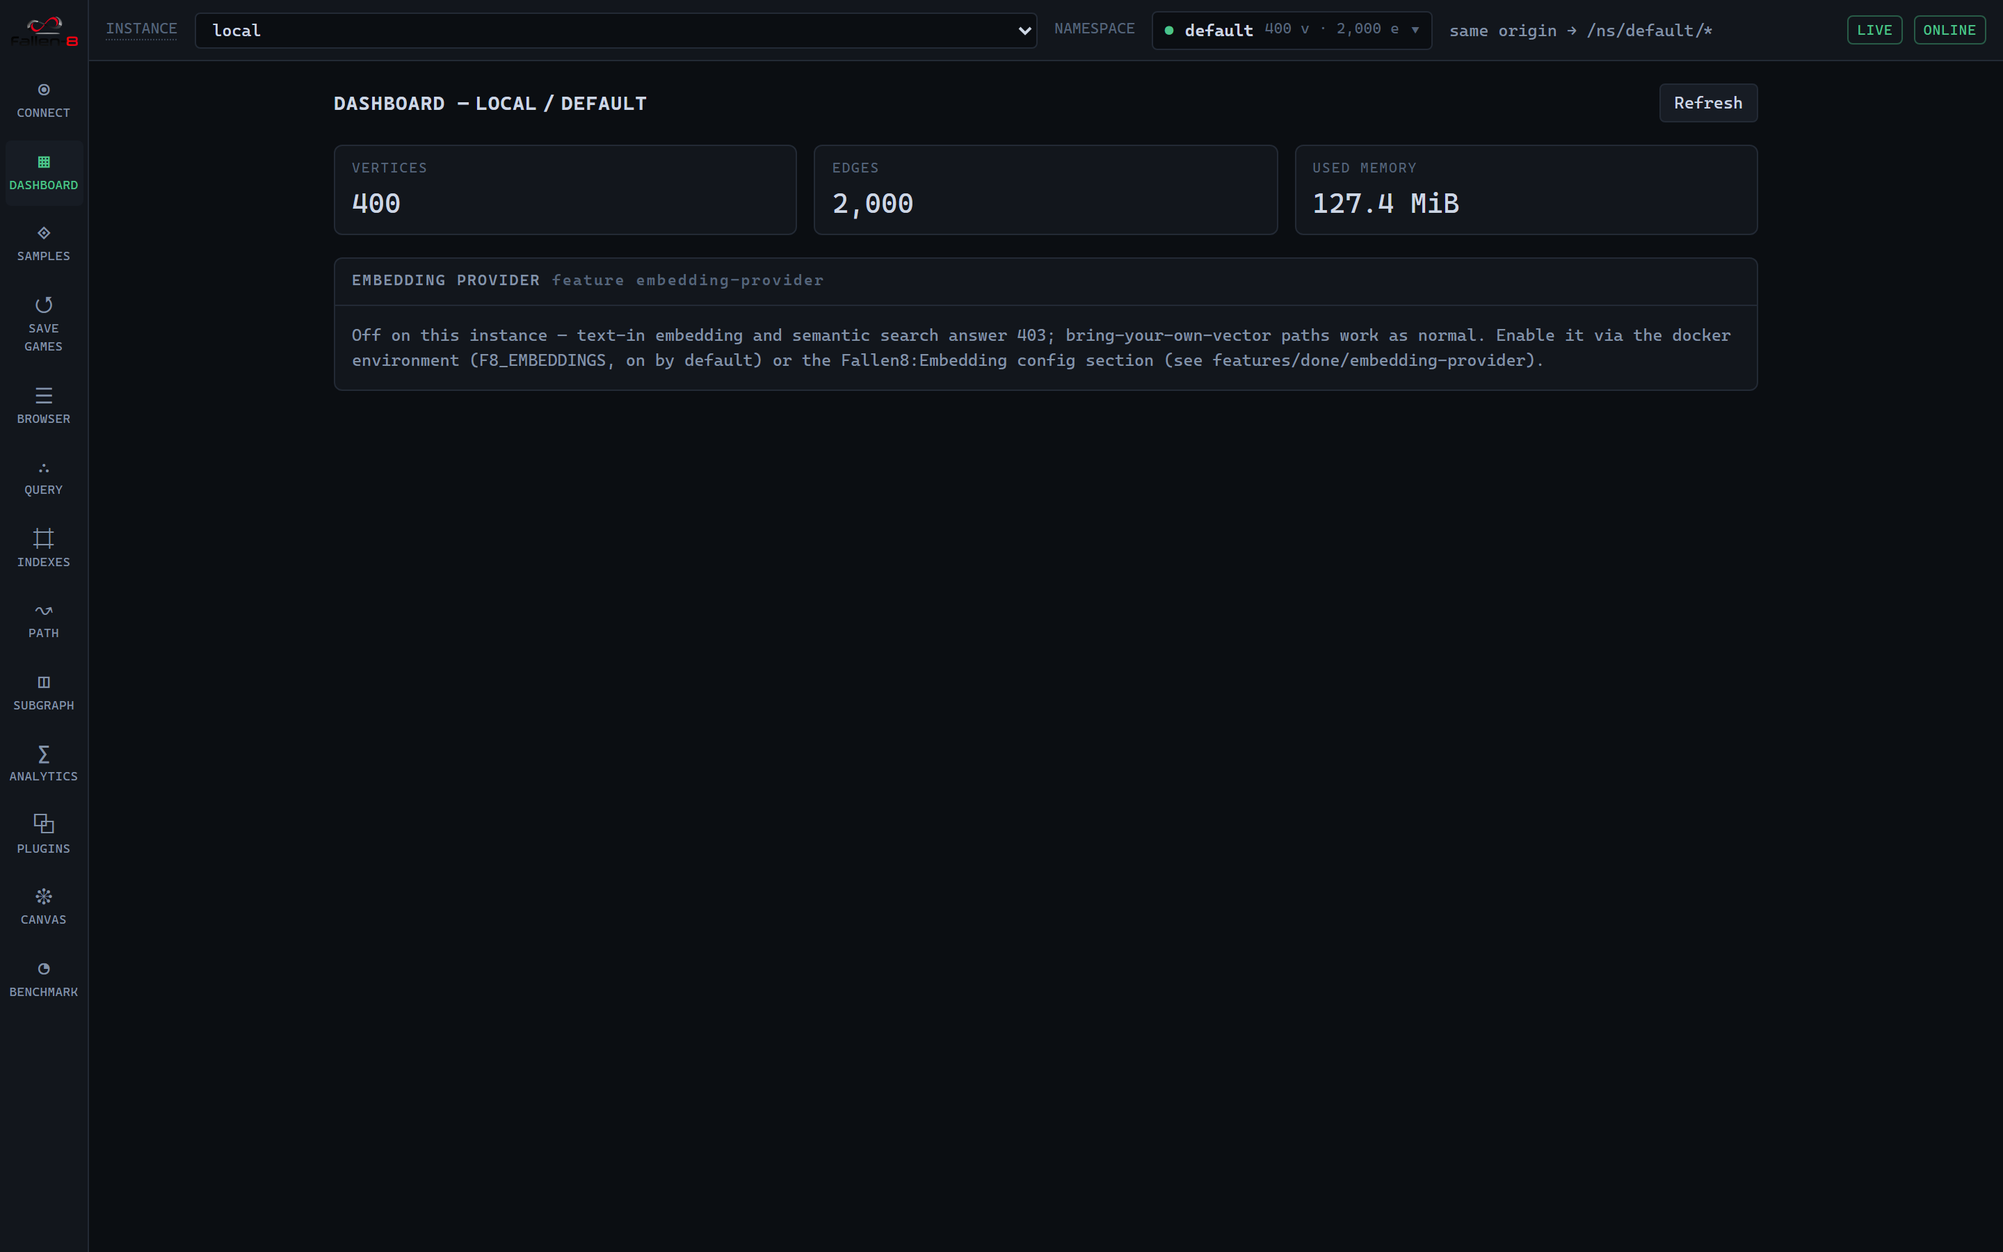
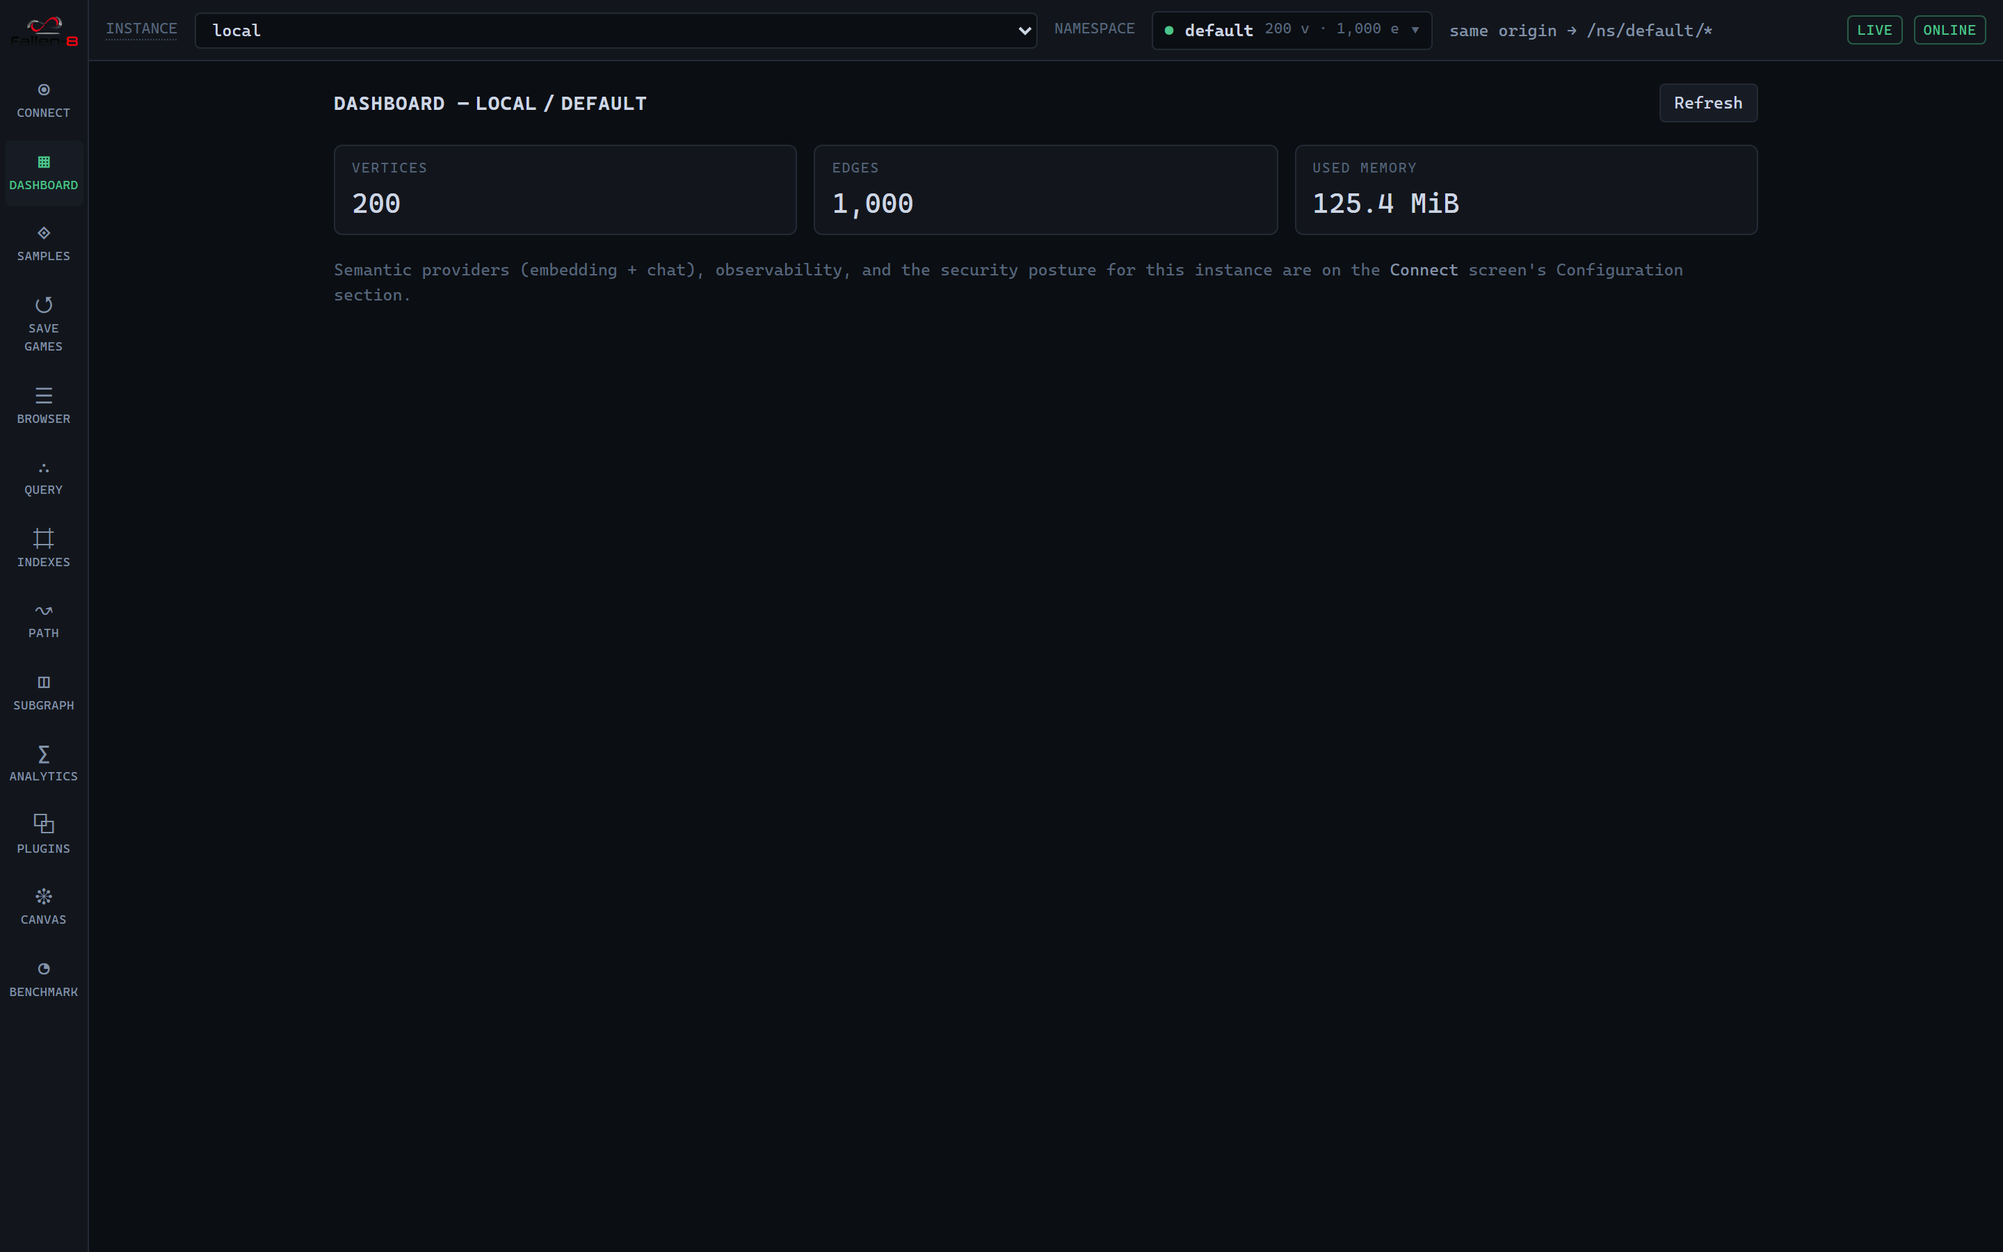
instance-config: docs, architecture diagrams, compose, screenshots
- docs/studio.md: the Connect Configuration section (semantic providers +
  observability, read-only); Dashboard slimmed (embedding card moved);
  NL-assist rewritten for the instance-default reroute + custom escape
  hatch; capability table split (instance vs custom); FR-26.11 retired.
- docs/architecture.md + README.md mermaid: F8 is the semantic gateway -
  the rest->sidecar edge carries embeddings + chat, the browser->sidecar
  edge is the optional custom-direct path, and the "browser calls the
  model directly" prose is rewritten. Brand style unchanged.
- docs/semantic-traversal.md: the chat gateway sibling + config home.
  docs/observability.md: Studio surfaces the posture. docs/running.md:
  F8_CHAT env row. docs/troubleshooting.md: the new default failure modes.
- docker-compose.yml: wire F8_CHAT (default true) -> Fallen8__Chat__*,
  reusing the Ollama sidecar (phi4-f8-mini) so the default NL path works
  out of the box.
- Screenshots redone: screen-connect.png (Configuration section),
  screen-dashboard.png (lean, card removed).

diff --git a/docs/studio.md b/docs/studio.md
@@ -12,8 +12,8 @@ Connect, Save games, and Benchmark are Fallen-8-level (they can span namespaces)
 
 | Screen | Scope | Purpose |
 |---|---|---|
-| Connect | Fallen-8 | Register instances, manage namespaces |
-| Dashboard | namespace | Status overview: vertex/edge counts, memory, embedding provider |
+| Connect | Fallen-8 | Register instances, instance configuration (semantic providers + observability), manage namespaces |
+| Dashboard | namespace | Status overview: vertex/edge counts, memory |
 | Samples | namespace | One-click demo-graph gallery with a capability tag filter |
 | Save games | Fallen-8 | Checkpoint registry (load / delete) + administration (save/load/erase, jsonl import/export) |
 | Browser | namespace | Look up an element, inspect properties/embeddings, adjacency, bulk view, mutations |
@@ -30,13 +30,15 @@ Connect, Save games, and Benchmark are Fallen-8-level (they can span namespaces)
 
 ![Connect screen](images/screen-connect.png)
 
-Two panels. The **Instances** table lists registered servers with a radio to activate one, its endpoint and auth kind, and a live health cell (a lazy `GET /status` showing vertex/edge counts, or `unreachable` / `unauthorized`). "+ Register instance" takes a name, a base URL (empty = same origin as Studio), and an optional API key; keys are stored in this browser only and sent as a bearer/custom header ([security.md](security.md)). The **Namespaces** panel manages the active instance's namespaces — create, rename, switch to, drop, with counts and the `/ns/{name}/*` URL prefix; `default` aliases the bare routes and cannot be renamed or dropped ([namespaces.md](namespaces.md)).
+Three panels. The **Instances** table lists registered servers with a radio to activate one, its endpoint and auth kind, and a live health cell (a lazy `GET /status` showing vertex/edge counts, or `unreachable` / `unauthorized`). "+ Register instance" takes a name, a base URL (empty = same origin as Studio), and an optional API key; keys are stored in this browser only and sent as a bearer/custom header ([security.md](security.md)). The **Configuration** panel (below) shows the active instance's instance-wide config read-only. The **Namespaces** panel manages the active instance's namespaces — create, rename, switch to, drop, with counts and the `/ns/{name}/*` URL prefix; `default` aliases the bare routes and cannot be renamed or dropped ([namespaces.md](namespaces.md)).
+
+The **Configuration** panel is read-only (instance config is set at startup via env/appsettings, so it is display + guidance, not an editor). It sourced from `GET /config` and shows: the **semantic providers** — the embedding provider (backend / model / dimension / metric / loaded) and the **chat gateway** (backend / model / loaded, plus GPU when the Ollama backend reports VRAM residency); and the **observability** posture — a one-line status ("pushing metrics + traces + logs to `<endpoint>`" / "Prometheus at `/metrics`" / off) with a **Configure…** overlay that lists each value and its `Fallen8__…` env key. Secrets are never shown (only whether an API key is required). See [semantic-traversal.md](semantic-traversal.md) and [observability.md](observability.md).
 
 ## Dashboard
 
 ![Dashboard screen](images/screen-dashboard.png)
 
-A lean status overview for the active namespace: vertex/edge counts, used memory from `GET /status` ([observability.md](observability.md)), and the **Embedding provider** card — backend, model, dimension, metric, and load state, or a note when it is off or unreported ([semantic-traversal.md](semantic-traversal.md)). Everything that used to crowd the Dashboard now has its own rail entry — the sample gallery is **Samples**, the plugin inventories and registry are **Plugins**, persistence and administration are **Save games**, and the stored-query library is on **Query**.
+A lean status overview for the active namespace: vertex/edge counts and used memory from `GET /status` ([observability.md](observability.md)). Everything that used to crowd the Dashboard now has its own home — the sample gallery is **Samples**, the plugin inventories and registry are **Plugins**, persistence and administration are **Save games**, the stored-query library is on **Query**, and the semantic providers + observability moved to the Connect **Configuration** section.
 
 ## Samples
 
@@ -123,15 +125,17 @@ Opened from every fragment slot on the Path and Subgraph screens (the Query scre
 
 ### NL assist
 
-The editor's side panel drafts a fragment from a natural-language description. It calls a model backend **you run yourself, directly from the browser** — never through the Fallen-8 instance.
+The editor's side panel drafts a fragment from a natural-language description, calling a model through one of two backends:
 
 | Setting | Detail |
 |---|---|
-| backend | built-in (local Ollama) or custom |
-| endpoint / api | e.g. `http://localhost:11434`; api kind `ollama` or `openai`-compatible |
-| model | built-in default `phi4-f8-mini` (fine-tuned); presets for `phi4-f8` (GPU fine-tune), stock `phi4-mini` / `phi4`, OpenAI, Anthropic |
+| backend | **this Fallen-8 instance** (default) or **custom endpoint** (browser-direct) |
+| instance mode | browser → the active instance's `POST /chat` → its model backend (the Ollama sidecar). The model is server-owned (`Fallen8:Chat:Ollama:Model`, default `phi4-f8-mini`); nothing to configure. Needs the instance's chat gateway enabled (`Fallen8:Chat:Enabled` / `F8_CHAT`) — [semantic-traversal.md](semantic-traversal.md). |
+| custom mode | the browser calls the endpoint **directly**; api kind `ollama` or `openai`-compatible; presets for the fine-tuned `phi4-f8-mini`/`phi4-f8`, stock `phi4-mini`/`phi4`, OpenAI, Anthropic. Any API key is held only in the browser and never sent to a Fallen-8 instance. |
 
-The compose stack runs the Ollama sidecar and sets `OLLAMA_ORIGINS` to the Studio origin so the browser may call it; for your own Ollama, set it yourself. The panel shows an informational reachability check for the configured backend but never blocks on it. Each draft is inserted as ordinary editable text and run through the same validation the editor uses, never auto-submitted; on an invalid draft the editor feeds the compiler diagnostics back to the model and retries a bounded number of times before stopping. A non-loopback endpoint shows a "text leaves this machine" notice first, and drafts can be rated 👍/👎 and exported as training examples. A model that is not present on the backend makes the call 404 ([troubleshooting.md](troubleshooting.md)).
+Instance mode is the default because Fallen-8 is now the semantic gateway (embeddings and chat both proxy through the instance). **This retires the earlier "never through the Fallen-8 instance" rule for the default path** — the prompt travels to the same instance you already trust with your graph, so instance mode shows no egress notice; the surviving guarantee is that a **custom** endpoint and its key stay browser-direct and never reach F8. A non-loopback custom endpoint still shows the "text leaves this machine" notice.
+
+Each draft is inserted as ordinary editable text and run through the same validation the editor uses, never auto-submitted; on an invalid draft the editor feeds the compiler diagnostics back to the model and retries a bounded number of times before stopping. Drafts can be rated 👍/👎 and exported as training examples. A model that is not present on the backend makes the call 404 ([troubleshooting.md](troubleshooting.md)). The plugin authoring editor's NL panel works the same way.
 
 ## Server capabilities Studio uses
 
@@ -140,7 +144,8 @@ Studio degrades gracefully when a capability is off, but these features need ser
 | Studio capability | Needs on the server | Docs |
 |---|---|---|
 | Delegate validation + inline path/subgraph filters & costs | The API key when one is configured (dynamic code is always on) | [security.md](security.md) |
-| NL assist drafting | A reachable model backend + `OLLAMA_ORIGINS` | [security.md](security.md) |
+| NL assist drafting (instance mode, default) | The chat gateway enabled (`Fallen8:Chat:Enabled` / `F8_CHAT`) + its Ollama backend reachable | [semantic-traversal.md](semantic-traversal.md) |
+| NL assist drafting (custom mode) | A reachable model backend the browser calls directly (`OLLAMA_ORIGINS` for a browser-direct Ollama) | [security.md](security.md) |
 | Text-in embedding, semantic search, text query vectors | Embedding provider enabled | [semantic-traversal.md](semantic-traversal.md) |
 | Stored-query invocation (Path / Subgraph) | Nothing (invocation is never gated) | [stored-queries.md](stored-queries.md) |
 | Live chip and push refreshes | Change feed enabled | [change-feed.md](change-feed.md) |

diff --git a/docs/architecture.md b/docs/architecture.md
@@ -19,7 +19,7 @@ flowchart TB
         direction TB
         rest["REST controllers + OpenAPI"]:::sys
         roslyn["Roslyn delegate compiler<br/>+ code cache"]:::sys
-        embed["Embedding provider<br/>(optional, off by default)"]:::sys
+        semantic["Semantic gateway<br/>(embeddings + chat, optional)"]:::sys
         wwwroot["wwwroot (serves F8 Studio)"]:::sys
     end
     subgraph engine["fallen-8-core (in-memory engine)"]
@@ -36,12 +36,12 @@ flowchart TB
     mcp -->|HTTP| rest
     studio -->|HTTP| rest
     svc -->|HTTP| rest
-    studio -.->|assist calls, direct from browser| sidecar
+    studio -.->|custom model endpoint (optional, browser-direct)| sidecar
     wwwroot -.- studio
     rest --> ns
     rest --> roslyn
-    rest --> embed
-    embed -.-> sidecar
+    rest --> semantic
+    semantic -.->|embeddings + chat| sidecar
     ns --> writer --> model
     model --- plugins
     model --- durab
@@ -104,11 +104,15 @@ modes. The full story is in [MCP server](mcp-server.md).
 ## F8 Studio and the model sidecar
 
 [F8 Studio](studio.md) is a React single-page app. It talks to the REST API like any other
-client — it has no privileged channel. Its natural-language assist is the one exception to
-the "everything through the API" rule: the browser calls a **user-run model backend**
-(Ollama / llama.cpp) **directly**, so no model traffic passes through the engine. In the
-compose environment that backend is the Ollama sidecar, which also serves the embedding model
-the app's provider calls. F8 itself bundles no model weights or runtime.
+client — it has no privileged channel, including for models: the app is the **semantic
+gateway**. Both embeddings and the natural-language assist default to going **through the
+instance** — the browser calls `POST /embedding/text` / `POST /chat`, and the app proxies to
+its model backend. In the compose environment that backend is the Ollama sidecar, which
+serves both the embedding model and the chat model. F8 itself bundles no model weights or
+runtime. The one path that stays off the instance is a **custom** NL-assist endpoint: there
+the browser calls the model backend directly and any API key is held only in the browser
+(the earlier browser-only default was retired in favour of the gateway — see
+[studio.md](studio.md)).
 
 ## One deployable unit
 

diff --git a/docs/observability.md b/docs/observability.md
@@ -1,6 +1,6 @@
 # Observability
 
-Fallen-8 emits metrics and traces through BCL instruments — `System.Diagnostics.Metrics` meters and an `ActivitySource` — so the engine carries **no OpenTelemetry dependency**. The server wires OpenTelemetry only when you configure an exporter; a default configuration runs **zero OTel code paths** and, with no listener attached, every hot-path clock read and `StartActivity` call is skipped. Three surfaces are always available regardless of that wiring: `GET /statistics` (a graph-shape snapshot), `GET /status` (a cheap discovery probe), and the `GET /healthz` / `GET /readyz` health probes. Two more are opt-in: the Prometheus scrape endpoint `GET /metrics` and OTLP export of metrics + traces.
+Fallen-8 emits metrics and traces through BCL instruments — `System.Diagnostics.Metrics` meters and an `ActivitySource` — so the engine carries **no OpenTelemetry dependency**. The server wires OpenTelemetry only when you configure an exporter; a default configuration runs **zero OTel code paths** and, with no listener attached, every hot-path clock read and `StartActivity` call is skipped. Three surfaces are always available regardless of that wiring: `GET /statistics` (a graph-shape snapshot), `GET /status` (a cheap discovery probe), and the `GET /healthz` / `GET /readyz` health probes. Two more are opt-in: the Prometheus scrape endpoint `GET /metrics` and OTLP export of metrics + traces. [F8 Studio](studio.md) surfaces the configured posture read-only in its Connect **Configuration** section — whether OTLP/Prometheus are on and the OTLP endpoint telemetry is pushed to (sourced from `GET /config`).
 
 ## Turning it on
 

diff --git a/docs/troubleshooting.md b/docs/troubleshooting.md
@@ -3,15 +3,20 @@
 The snags people actually hit, with the shortest fix and a pointer to the doc that owns the
 full story.
 
-## NL assist returns "Model endpoint returned HTTP 404"
+## NL assist fails to draft (404 / 403 / 503)
 
-**Symptom.** Studio's delegate editor, using the built-in (local Ollama) backend, returns
-`Model endpoint returned HTTP 404`.
+**Symptom.** Studio's delegate editor cannot draft a fragment. In the default **instance**
+backend the instance answers `403` (chat gateway off) or `503` (backend unreachable / model
+missing); in a **custom** browser-direct backend you see `Model endpoint returned HTTP 404`.
 
-**Cause.** The assist model (`phi4-f8-mini`) is not in the sidecar's volume yet — usually the
-first-start pull has not finished, or it failed (no internet to `registry.ollama.ai`). The
-container uses its own `f8-ollama-models` volume, **not** any Ollama installed on the host,
-so pulling on the host does not help the container.
+**Cause.** By default NL-assist routes browser → the instance's `POST /chat` → the Ollama
+sidecar (feature instance-config). A `403` means the chat gateway is off
+(`Fallen8:Chat:Enabled` / `F8_CHAT=false`); a `503`/`404` means the assist model
+(`phi4-f8-mini`) is not in the sidecar's volume yet — usually the first-start pull has not
+finished, or it failed (no internet to `registry.ollama.ai`). The container uses its own
+`f8-ollama-models` volume, **not** any Ollama installed on the host, so pulling on the host
+does not help the container. (A custom browser-direct backend bypasses the instance; a 404
+there is the model missing on *that* endpoint.)
 
 **Fix.**
 

diff --git a/docs/semantic-traversal.md b/docs/semantic-traversal.md
@@ -155,6 +155,17 @@ Configure it under `Fallen8:Embedding` (off unless `Enabled`):
 | `QueryPrefix` | `""` | Retrieval prefix applied to **query-time** embeddings only |
 | `Onnx.{ModelPath,VocabPath,…}`, `LLamaSharp.ModelPath`, `Ollama.{Endpoint,Model}` | — | Backend-specific settings |
 
+## The chat gateway (its sibling)
+
+The embedding provider has a sibling under the same "semantic gateway" idea (feature
+instance-config): a **chat gateway**, `POST /chat`, that proxies a chat completion to the
+same model backend so a client reaches an SLM/LLM *through* the instance. It is the default
+NL-assist transport in [F8 Studio](studio.md), also apiApp-only and capability-gated, and the
+model is server-owned. Configure it under `Fallen8:Chat` (off unless `Enabled` /
+`F8_CHAT`): `Backend` (`Ollama`), `Ollama.{Endpoint,Model}` (default `phi4-f8-mini`),
+`TimeoutSeconds`. Both providers' state — plus whether the backend runs on GPU when Ollama
+reports it — is shown read-only in Studio's Connect **Configuration** section (`GET /config`).
+
 Weights are **never downloaded by Fallen-8** — paths point at operator-provided files.
 
 | Backend | In-process | Weights | Note |

diff --git a/README.md b/README.md
@@ -53,7 +53,8 @@ Each feature has a deep-dive doc — follow the link.
   plugins by authoring C# source (compiled, contract-validated, namespace-scoped) instead of
   uploading a DLL.
 - **[F8 Studio](docs/studio.md)** — a browser UI to browse, query, visualize, and author the C#
-  delegates, with an optional local natural-language assist.
+  delegates, with a natural-language assist that runs through your instance by default (or a
+  browser-direct custom model backend).
 - **[MCP server](docs/mcp-server.md)** — a Model Context Protocol surface so AI agents call
   Fallen-8 as typed tools; small and token-frugal, read-only by default, with tiered opt-in
   writes and three auth modes up to OAuth 2.1.
@@ -91,7 +92,7 @@ flowchart TB
     mcp -->|HTTP| rest
     studio -->|HTTP| rest
     services -->|HTTP| rest
-    rest -.->|embeddings| sidecar
+    rest -.->|embeddings + chat| sidecar
 
     classDef client fill:#45494D,stroke:#666666,color:#FEFEFE
     classDef mcp fill:#E2001A,stroke:#FC0606,color:#FEFEFE

diff --git a/docs/running.md b/docs/running.md
@@ -64,6 +64,7 @@ for the session; `Remove-Item Env:NAME` clears it) and chain with `;`, not `&&`.
 | `F8_PORT` | `8080` | Host port for Studio + API (container always listens on 8080) |
 | `F8_API_KEY` | *(unset)* | Set it and the **entire** service requires the key; unset = open ([Security](security.md)) |
 | `F8_EMBEDDINGS` | `true` | Text-in embeddings via the sidecar's `bge-m3`; `false` disables the provider (bring-your-own-vector still works) |
+| `F8_CHAT` | `true` | The chat gateway (`POST /chat` → the sidecar's assist model); the default NL-assist path. `false` answers 403 (custom browser-direct backends still work) |
 | `F8_GPU` | *(auto)* | `1` forces the NVIDIA GPU, `0` forces CPU-only; unset auto-detects |
 | `F8_PULL_PHI4F8` | `0` | `1` also pulls the larger GPU-only `phi4-f8` assist model (~9 GB) |
 | `F8_DELEGATE_REPO` | `stoic_hellman_728/phi4-f8-mini` | Source for the default assist fine-tune (tagged locally as `phi4-f8-mini`) |
